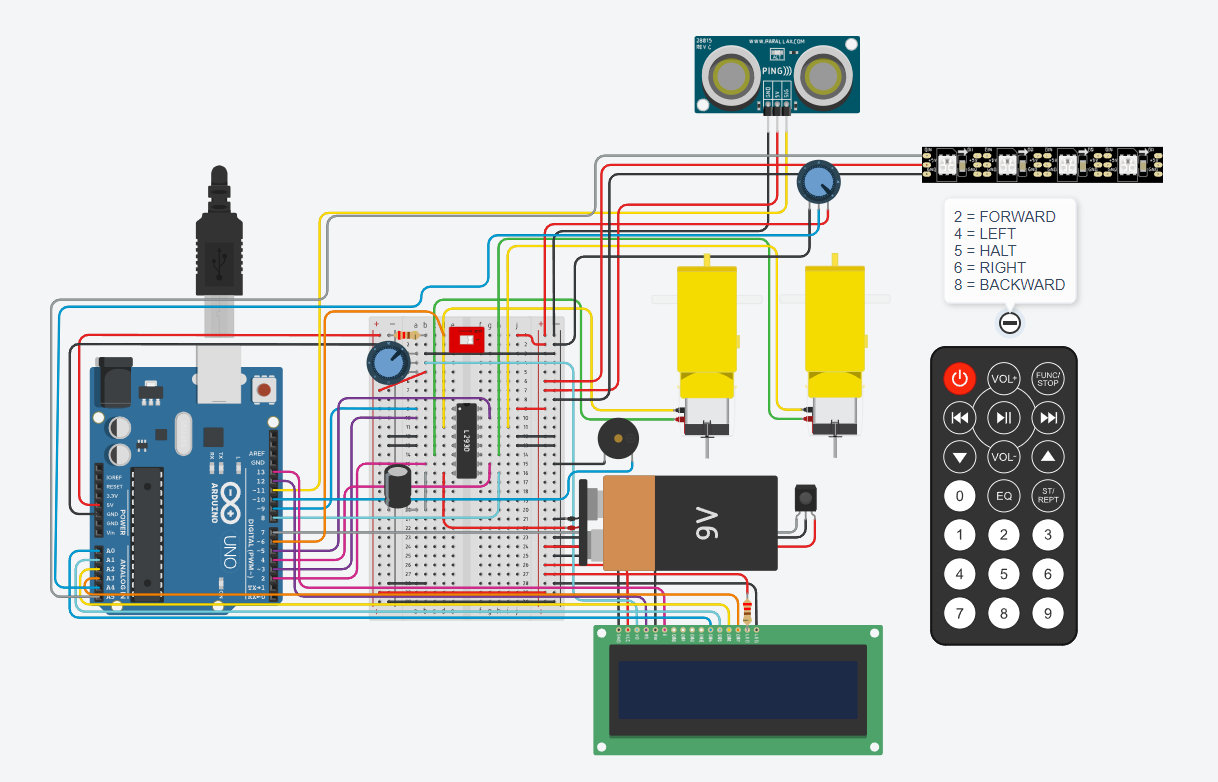
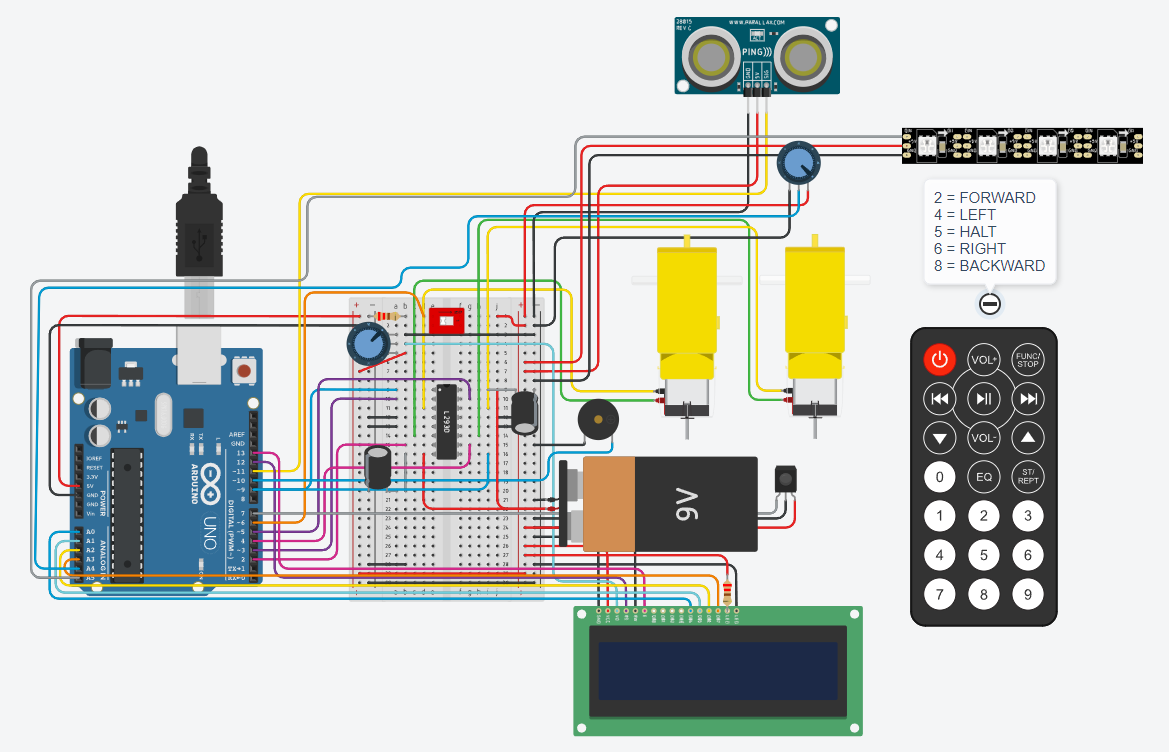
Updated schematics and enablePin connector to sync speed on two motors.

Changed region(s): [[0.0, 0.0, 0.9855, 0.9787]]

diff --git a/README.md b/README.md
@@ -10,7 +10,7 @@ An IR remote controlled robot with various features using Arduino.
 * 1 x Piezo Buzzer (small)
 * 1 x 220Ohm Resistor
 * 2 x 250kOhm Potentiometer
-* 1 x 16V 1microFarad Capacitor
+* 2 x 16V 1microFarad Capacitor
 * 1 x NeoPixel LED (Strip 4)
 * 1 x IR Sensor
 * 1 x IR Remote
